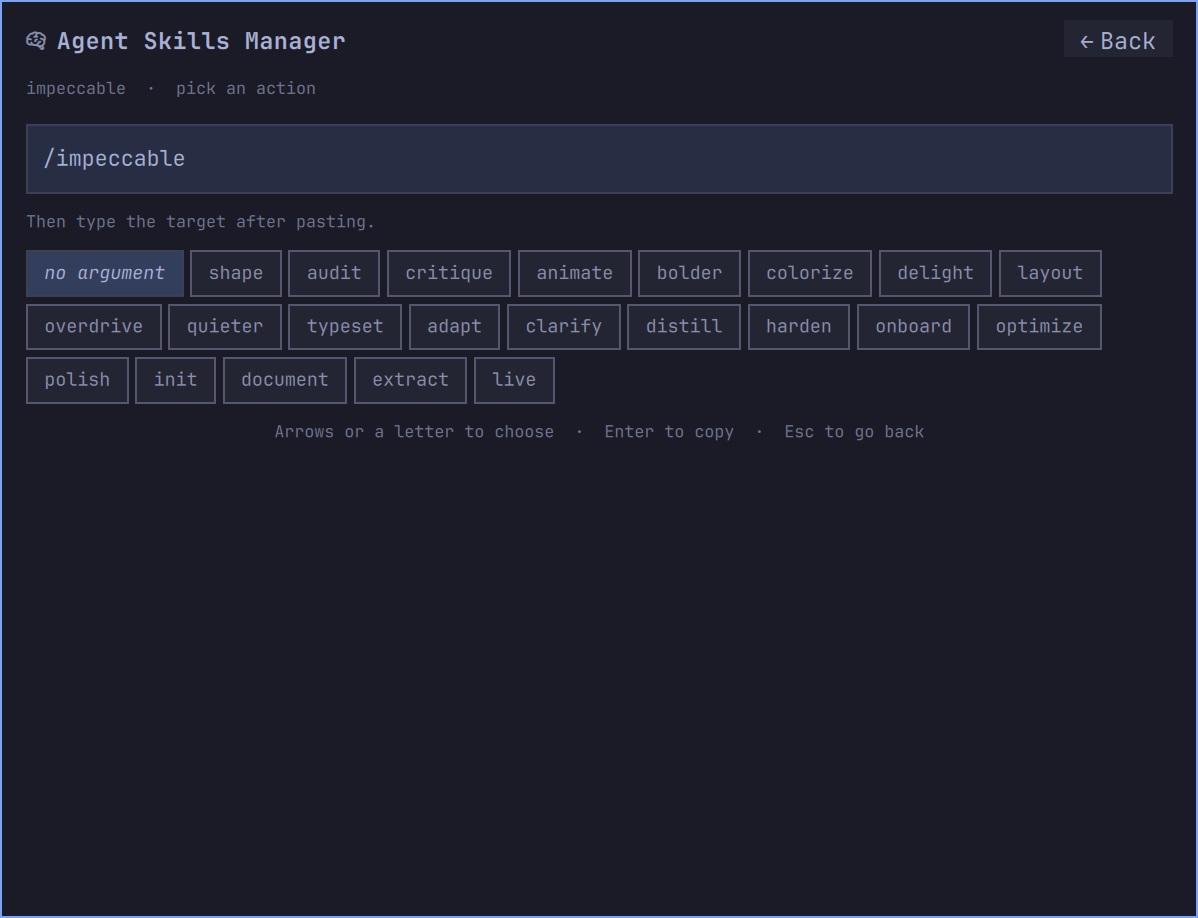
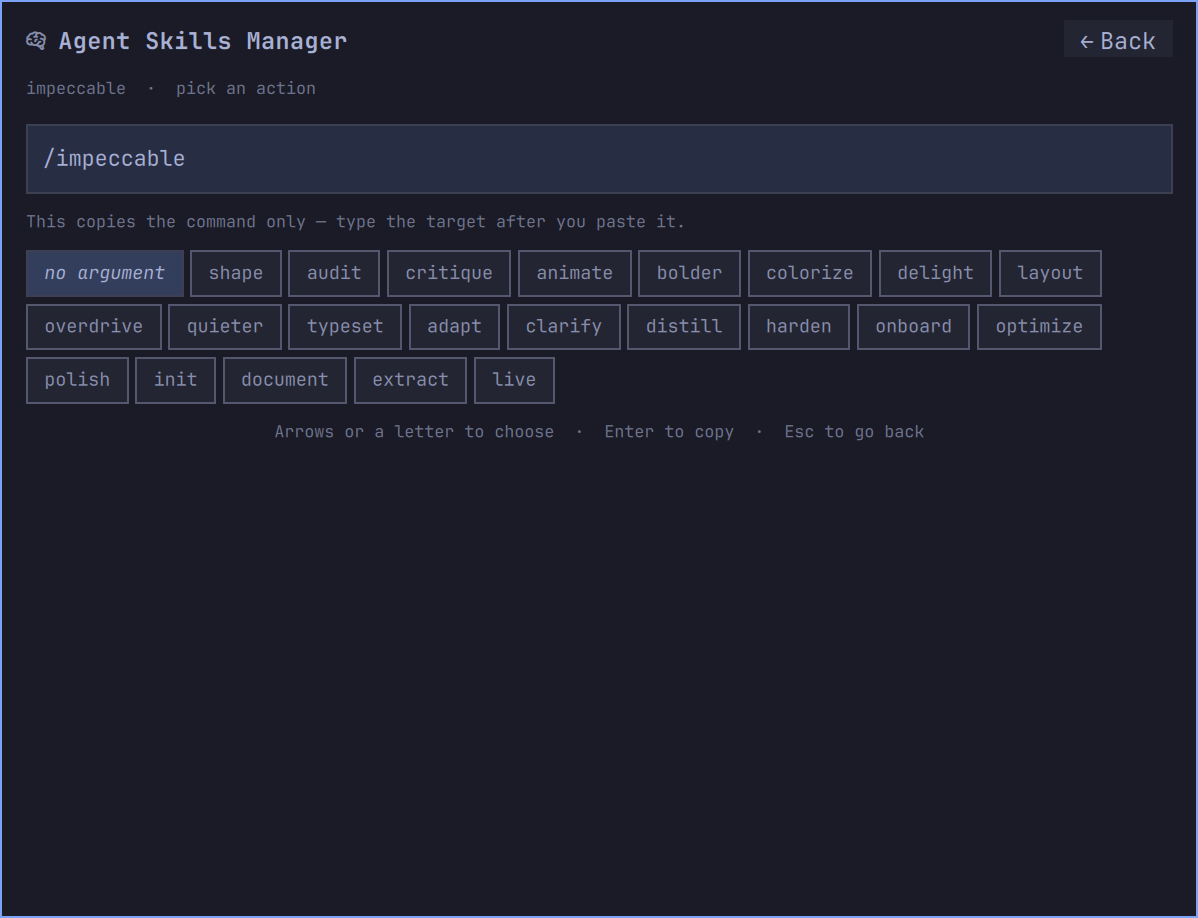
fix: one grammar for the overlay, and controls that name their own action
The picker is one window with six states, and it was writing in five voices.
The line under the title was a subject and a verb in one state ("impeccable ·
pick an action"), a dangling preposition in the next ("nextjs · move to"), a
bare noun in the third ("categories"), a noun phrase that lower-cased the name
you gave the category in the fourth ("the automation category"), and a status
in the fifth ("unsaved changes"). It sits in the same place at the same size
every time, so the reader learns to read it once and it was never the same
thing twice. Now it is always what you are working on, then what this screen
does to it.

The big box was the other half of it. In every state it holds the object Enter
will act on -- `/impeccable`, `Agents`, `Automation` -- except in the category
index, where it held a verb as well: "edit  Automation". That box is styled as
an input and the footer invites you to type into it, so it read as text you had
somehow entered, and "edit Automation" is not something you can type.

The unsaved prompt asked its question in words its own buttons did not use:
"Keep the new name and colour, or go back to what was there?" over buttons
marked Save and Discard, under a footer that said "Esc to drop the changes".
Three vocabularies for two actions. It now says save and discard throughout,
names the category it is asking about, and names only what actually changed --
offering to save "the new name and colour" after you had only tried a colour
[…]

diff --git a/Panel.qml b/Panel.qml
@@ -1511,7 +1511,7 @@ Panel {
       if (at === undefined) return ""
       if (at === "\u0000addnew") return "new category"
       if (at === "\u0000new") return "new category  " + root.newCategoryName()
-      return "edit  " + root.categoryLabelFor(at)
+      return root.categoryLabelFor(at)
     }
     if (root.pickerMode === "style")
       return root.pickerText.trim() === "" ? root.pickerCategory : root.pickerText.trim()
@@ -3978,13 +3978,20 @@ Panel {
               width: picker.width
               textFormat: Text.PlainText
               text: {
-                if (root.styleAsking) return "unsaved changes"
-                if (root.pickerNaming) return "new category"
-                if (picker.managing) return "categories"
-                if (picker.styling) return "the " + root.pickerCategory + " category"
+                // One grammar for all six states: the thing you are working
+                // on, then what this screen does to it. The line sits in the
+                // same place at the same size every time, so it cannot be a
+                // status here, a bare noun there and a dangling preposition in
+                // the third -- the reader learns to read it once.
+                var cat = root.categoryLabelFor(root.pickerCategory)
+                if (root.styleAsking) return cat + "  \u00b7  unsaved changes"
+                if (root.pickerNaming) return "categories  \u00b7  name a new one"
+                if (picker.managing) return "categories  \u00b7  pick one to edit"
+                if (picker.styling) return cat + "  \u00b7  rename or recolour"
                 if (!root.pickerOpen || !root.pickerRow) return ""
                 var n = root.clean(root.pickerRow.view.name, 60)
-                return picker.shelving ? n + "  \u00b7  move to" : n + "  \u00b7  pick an action"
+                return picker.shelving ? n + "  \u00b7  move to a category"
+                                       : n + "  \u00b7  pick an action"
               }
               color: root.soft
               font.family: root.face
@@ -4084,16 +4091,29 @@ Panel {
             textFormat: Text.PlainText
             visible: text !== ""
             text: {
-              if (root.styleAsking) return "Keep the new name and colour, or go back to what was there?"
-              if (root.pickerNaming) return "Lower case letters, digits and dashes. It starts empty; put something on it with ^M from any row."
-              if (picker.managing) return "Pick a category to rename it or change its colour. Type a name nothing answers to and it becomes a new one."
-              if (picker.styling) return "Type to rename it. Pick a colour, or clear it to go back to the theme."
-              if (picker.shelving) return "Type a name nothing answers to and it becomes a new category."
+              // Each line names the same action the control beside it names.
+              // The question used to ask you to "keep" or "go back" and then
+              // offered buttons that said Save and Discard: four words for two
+              // actions, and the reader has to map them.
+              // Name only what actually changed. Offering to save "the new name
+              // and colour" after you only tried a colour is a prompt about a
+              // change you did not make, and the reader has to go and check.
+              if (root.styleAsking) {
+                var renamed = root.pickerText.trim() !== root.styleBaseLabel
+                var recoloured = root.styleColourIndex !== root.styleBaseIndex
+                var both = renamed && recoloured
+                return "Save the new " + (both ? "name and colour" : renamed ? "name" : "colour")
+                     + ", or discard " + (both ? "them" : "it") + " and keep what was there?"
+              }
+              if (root.pickerNaming) return "Lower case letters, digits and dashes. The new category starts empty \u2014 put something on it with ^M from any row."
+              if (picker.managing) return "Pick one to rename it or change its colour. Type a name no category has yet to make a new one."
+              if (picker.styling) return "Type to rename it. Pick a colour, or choose theme default to let the theme decide."
+              if (picker.shelving) return "Type a name no category has yet to make a new one."
               if (!root.pickerOpen || !root.pickerRow) return ""
               var args = root.pickerRow.view.argumentChoices || []
               for (var i = 0; i < args.length; i++)
                 if (args[i].kind === "value")
-                  return "Then type the " + args[i].label + " after pasting."
+                  return "This copies the command only \u2014 type the " + args[i].label + " after you paste it."
               return ""
             }
             color: root.soft
@@ -4247,9 +4267,9 @@ Panel {
             horizontalAlignment: Text.AlignHCenter
             textFormat: Text.PlainText
             text: {
-              if (root.styleAsking) return "Enter to save  \u00b7  Esc to drop the changes"
+              if (root.styleAsking) return "Enter to save  \u00b7  Esc to discard"
               if (root.pickerNaming) return "Type the name  \u00b7  Enter to create it  \u00b7  Esc to go back"
-              if (picker.managing) return "Type to filter or name a new one  \u00b7  Enter to open it  \u00b7  Esc to go back"
+              if (picker.managing) return "Type to filter or name a new one  \u00b7  Enter to edit it  \u00b7  Esc to go back"
               if (picker.styling) return "Type to rename  \u00b7  arrows to try a colour  \u00b7  Enter to save  \u00b7  Esc to go back"
               if (picker.shelving) return "Type to filter  \u00b7  arrows to choose  \u00b7  Enter to move it  \u00b7  Esc to go back"
               return "Arrows or a letter to choose  \u00b7  Enter to copy  \u00b7  Esc to go back"
